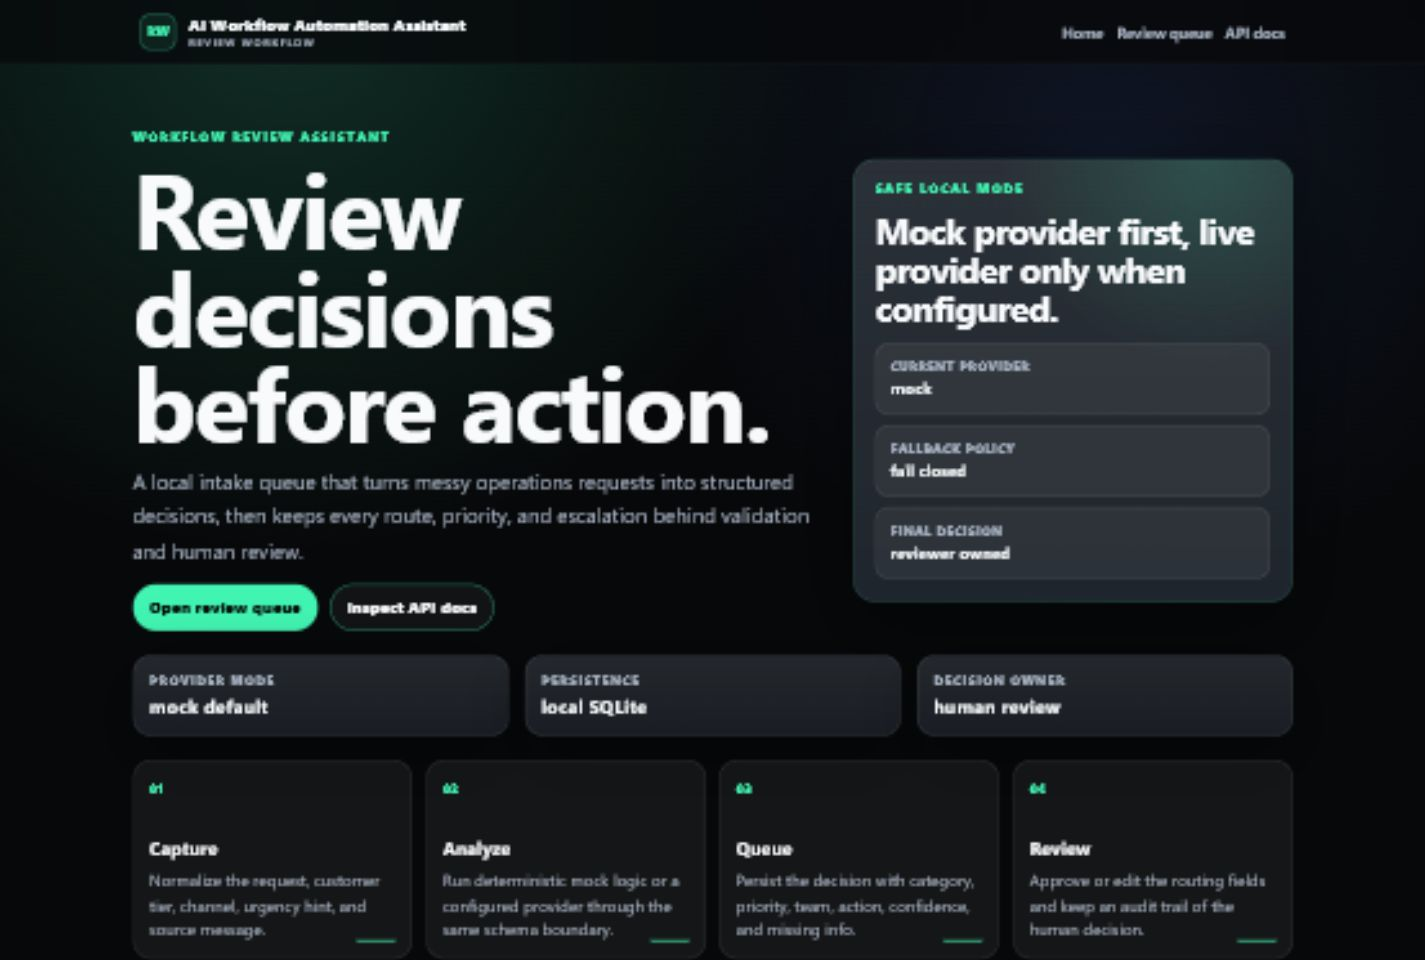
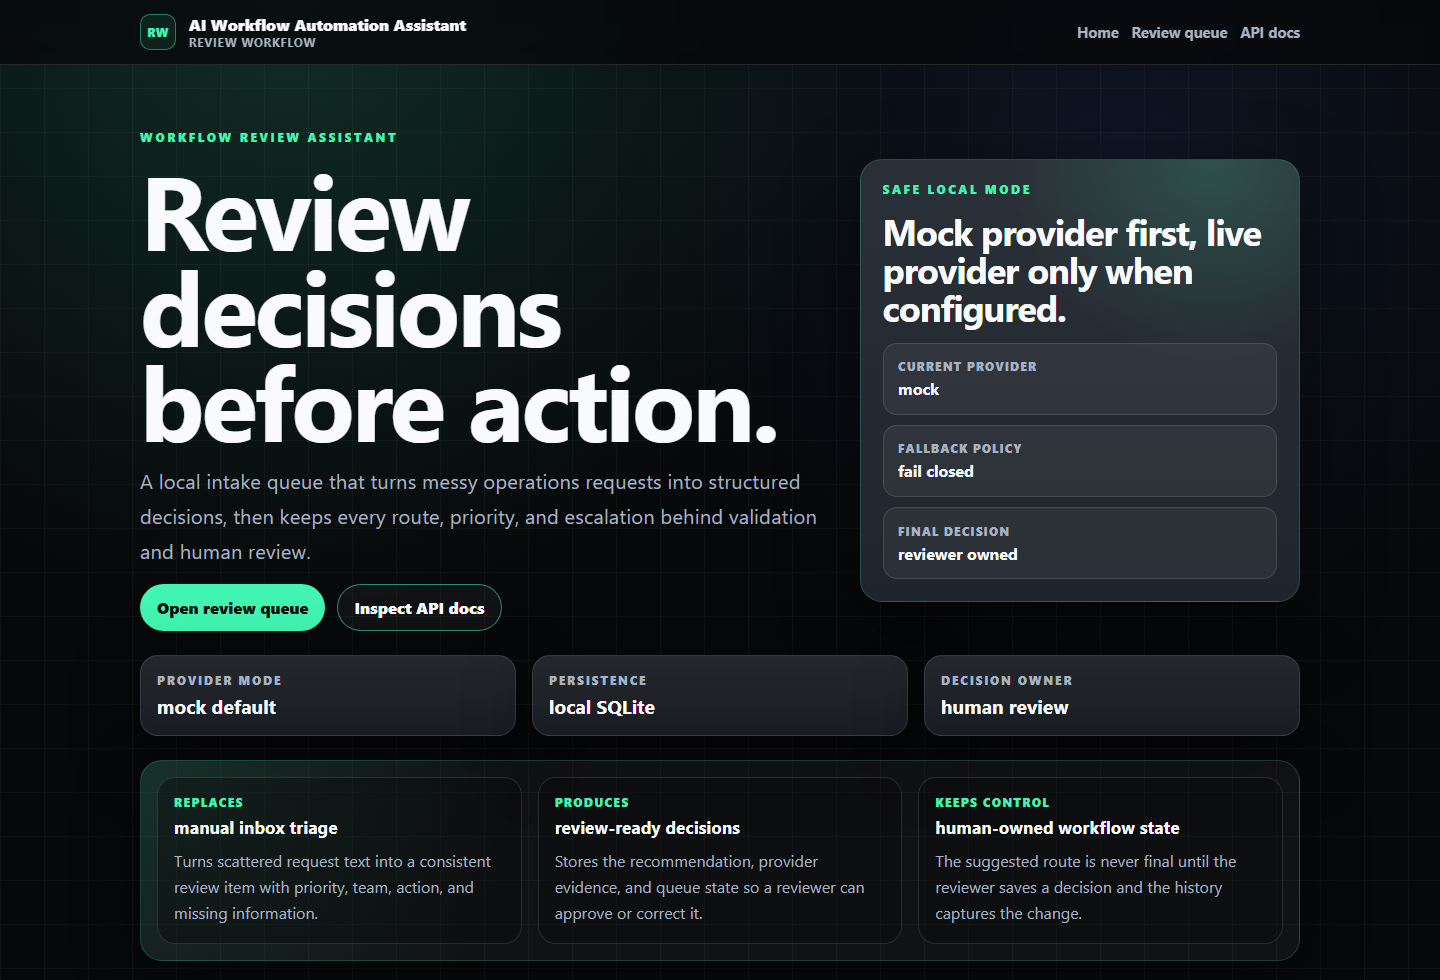
Clarify AI workflow review impact

diff --git a/app/static/styles.css b/app/static/styles.css
@@ -239,6 +239,60 @@ h2 {
   gap: 0.85rem;
 }
 
+.impact-strip,
+.queue-guidance {
+  display: grid;
+  gap: 1rem;
+  border: 1px solid rgba(66, 245, 179, 0.2);
+  border-radius: 22px;
+  background:
+    radial-gradient(circle at 0% 0%, rgba(66, 245, 179, 0.14), transparent 32%),
+    rgba(255, 255, 255, 0.045);
+  box-shadow: 0 20px 64px var(--shadow);
+}
+
+.impact-strip {
+  grid-template-columns: repeat(3, minmax(0, 1fr));
+  padding: 1rem;
+}
+
+.impact-strip article {
+  padding: 1rem;
+  border: 1px solid var(--border);
+  border-radius: 18px;
+  background: rgba(7, 8, 10, 0.38);
+}
+
+.impact-strip span,
+.queue-guidance span {
+  display: block;
+  margin-bottom: 0.3rem;
+  color: var(--accent);
+  font-size: 0.74rem;
+  font-weight: 850;
+  letter-spacing: 0.12em;
+  text-transform: uppercase;
+}
+
+.impact-strip strong,
+.queue-guidance strong {
+  display: block;
+  font-size: 1.08rem;
+}
+
+.impact-strip p,
+.queue-guidance p {
+  margin: 0.6rem 0 0;
+  color: var(--muted);
+  line-height: 1.65;
+}
+
+.queue-guidance {
+  grid-template-columns: minmax(180px, 0.35fr) minmax(0, 1fr);
+  align-items: center;
+  padding: 1rem 1.1rem;
+}
+
 .workflow-lane article {
   position: relative;
   min-height: 190px;
@@ -709,8 +763,10 @@ textarea {
 
   .hero-layout,
   .workflow-lane,
+  .impact-strip,
   .ops-board,
   .decision-gate,
+  .queue-guidance,
   .queue-risk {
     grid-template-columns: 1fr;
   }

diff --git a/app/templates/index.html b/app/templates/index.html
@@ -51,6 +51,24 @@
     </div>
   </section>
 
+  <section class="impact-strip" aria-label="Practical workflow impact">
+    <article>
+      <span>Replaces</span>
+      <strong>manual inbox triage</strong>
+      <p>Turns scattered request text into a consistent review item with priority, team, action, and missing information.</p>
+    </article>
+    <article>
+      <span>Produces</span>
+      <strong>review-ready decisions</strong>
+      <p>Stores the recommendation, provider evidence, and queue state so a reviewer can approve or correct it.</p>
+    </article>
+    <article>
+      <span>Keeps control</span>
+      <strong>human-owned workflow state</strong>
+      <p>The suggested route is never final until the reviewer saves a decision and the history captures the change.</p>
+    </article>
+  </section>
+
   <section class="workflow-lane" aria-label="Review workflow">
     <article>
       <span>01</span>

diff --git a/app/templates/queue.html b/app/templates/queue.html
@@ -41,6 +41,17 @@
     </div>
   </section>
 
+  <section class="queue-guidance" aria-label="Reviewer operating guidance">
+    <div>
+      <span>Open first</span>
+      <strong>urgent, high-impact items</strong>
+    </div>
+    <p>
+      The queue is designed for reviewer judgment: inspect context, confirm the suggested route,
+      edit only the fields that need correction, and leave notes when the handoff needs follow-up.
+    </p>
+  </section>
+
   <section class="panel">
     <div class="panel-header">
       <h2>Current queue</h2>

diff --git a/tests/test_ui_pages.py b/tests/test_ui_pages.py
@@ -24,6 +24,8 @@ def test_homepage_presents_review_boundary(client: TestClient) -> None:
     assert response.status_code == 200
     assert "Review decisions before action." in response.text
     assert "Mock provider first" in response.text
+    assert "manual inbox triage" in response.text
+    assert "review-ready decisions" in response.text
     assert "reviewer owned" in response.text
 
 
@@ -51,6 +53,8 @@ def test_queue_page_presents_operational_metrics(client: TestClient) -> None:
     assert "Operational review queue" in response.text
     assert "High or urgent" in response.text
     assert "Review urgent items" in response.text
+    assert "Open first" in response.text
+    assert "urgent, high-impact items" in response.text
     assert "Northwind Labs" in response.text
     assert "Open review" in response.text
 

diff --git a/README.md b/README.md
@@ -17,6 +17,17 @@ The main design goal is simple: use AI inside a controlled workflow, not as the 
 - demonstrates provider abstraction instead of hard-coding model logic into the app
 - includes API, reviewer UI, SQLite persistence, synthetic data, and tests in one repo
 
+## Practical Impact
+
+The useful workflow is not "ask a model for a decision." It is: capture a messy operations request, normalize it, create a structured recommendation, keep the evidence visible, and let a reviewer approve or correct the route before work moves forward.
+
+In practice, the demo replaces a manual inbox scan with a repeatable review artifact:
+
+- one queue item per request
+- category, priority, recommended team, action, confidence, and missing information
+- provider metadata and validation boundary
+- editable human review state and review history
+
 ## Implemented Surfaces
 
 - `POST /api/v1/requests` to submit and analyze a request
